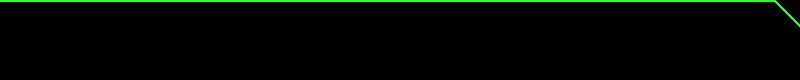
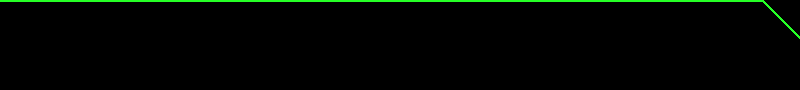
Implemented toolbar

Changed region(s): [[0.0, 0.0, 1.0, 0.4]]

diff --git a/TD/States/Ingame/MainState.cs b/TD/States/Ingame/MainState.cs
@@ -1,5 +1,6 @@
 using System;
 using System.Collections.Generic;
+using System.Drawing;
 using System.Linq;
 using System.Text;
 using System.Threading.Tasks;
@@ -17,6 +18,7 @@ public class MainState : BasicState
     public int money = 300;
     public int lives = 30;
     private List<Tower> towers = new List<Tower>();
+    protected Bitmap radiusTex = Resources.Radius_Texture;
 
     //Variables for checking position of tower.
     private int cellX;
@@ -24,7 +26,9 @@ public class MainState : BasicState
     private int tileX;
     private int tileY;
 
-    //Placing towers.
+    //GUI
+    Toolbar toolbar;
+    //Placing Towers
     private int newTowerIndex;  //index of the tower's texture.
     private string newTowerType;    //The type of tower to add.
     //The ranges of each tower. Is a bit naff, but there is no way to access the towers ranges when you are previewing a tower. 
@@ -65,6 +69,8 @@ public class MainState : BasicState
         : base(manager)
     {
         waveManager = new WaveManager(this, 10, Resources.En_Basic, Resources.Health_Bar);
+        toolbar = new Toolbar(); 
+       
 
         //DEBUG
         test = new Tow_Slow(Resources.Tow_Slow, Resources.Tow_Slow, Resources.Bul_Basic, new Vector2(40, 200));
@@ -76,7 +82,7 @@ public class MainState : BasicState
     public override void Update()
     {
         //Updating each tower.
-        foreach (Tower tower in towers)
+        foreach (Tower tower in towers.ToList())
         {
             //Giving the tower a target if it does not have one.
             if (tower.HasTarget == false)
@@ -92,7 +98,7 @@ public class MainState : BasicState
     private bool IsCellClear()
     {
         //Make sure tower is within limits of screen.
-        bool inBounds = cellX >= 0 && cellY >= 0 && cellX <= level.Width && cellY <= level.Height;
+        bool inBounds = cellX >= 0 && cellY >= 0 && cellX < Level.Width && cellY < Level.Height;
 
         bool spaceClear = true;
 
@@ -158,9 +164,42 @@ public class MainState : BasicState
     {
         level.Draw(e);
         waveManager.Draw(e);
+        toolbar.Draw(e);
+
+        Tower selectedTower = null;
 
         foreach (Tower t in towers)
+        {
+            //Drawing each tower.
             t.Draw(e);
+
+            //If the tower has been clicked on..
+            if (t.Selected)
+            {
+                //is has been selected.
+                selectedTower = t;
+            }
+        }
+
+        //We move this outside the loop so that the radius is drawn after all the towers have,
+        //therefore always being on top of all towers.
+        if (selectedTower != null)
+        {
+            //Calculating a rectangle from the range, to scale the radius texture to it.
+            Vector2 radiusPosition = new Vector2(selectedTower.Position.X + 20, selectedTower.Position.Y + 20) - new Vector2(selectedTower.Range);
+
+            Rectangle radiusRect = new Rectangle(
+            (int)radiusPosition.X,
+            (int)radiusPosition.Y,
+            (int)selectedTower.Range * 2,
+            (int)selectedTower.Range * 2);
+
+            radiusTex.MakeTransparent();
+            //Drawing the towers range.
+            e.Graphics.DrawImage(radiusTex, radiusRect);
+        }
+
+
     }
 }
 

diff --git a/TD/States/Ingame/Toolbar.cs b/TD/States/Ingame/Toolbar.cs
@@ -1,0 +1,37 @@
+using System;
+using System.Collections.Generic;
+using System.Drawing;
+using System.Linq;
+using System.Text;
+using System.Threading.Tasks;
+using System.Windows.Forms;
+using Tower_Defence.Properties;
+using Tower_Defence.Util;
+
+namespace Tower_Defence.States.Ingame
+{
+    public class Toolbar
+    {
+
+        private Bitmap texture = Resources.Toolbar;
+
+        //Position of toolbar & font.
+        private Rectangle rect = new Rectangle(0, Level.Height  * Level.TileWidth, 800, 90);
+        private Vector2 textPosition;
+
+        public Toolbar()
+        {
+            //Offset text to bottom right corner (Random values which work nicely are used).
+            textPosition = new Vector2(20, rect.Top + 15);
+        }
+
+        public void Draw(PaintEventArgs e)
+        {
+            e.Graphics.DrawImage(texture, rect);
+
+            //The new String(' ', 125) is just inserting 125 spaces.
+            //string text = string.Format("Gold: {0} {1} Lives: {2} {3}  Wave: {4}", player.Money, new String(' ', 10), player.Lives, new String(' ', 115), waveManager.Round);
+            //spriteBatch.DrawString(font, text, textPosition, Color.White);
+        }
+    }
+}

diff --git a/TD/States/Ingame/Towers/Tower.cs b/TD/States/Ingame/Towers/Tower.cs
@@ -29,7 +29,6 @@ namespace Tower_Defence.States.Ingame
 
         protected Bitmap bulletTexture;  //Texture of the towers bullet.
         protected Bitmap upgradedTower;    //Texture for the upgraded tower (for the overlay, drawn here)
-        protected Bitmap radiusTex = Resources.Radius_Texture;
         #endregion
 
         #region Properties
@@ -179,18 +178,7 @@ namespace Tower_Defence.States.Ingame
                 bullet.Draw(e);
             }
 
-            //Calculating a rectangle from the range, to scale the radius texture to it.
-            Vector2 radiusPosition = new Vector2(position.X + 20, position.Y + 20) - new Vector2(range);
 
-            Rectangle radiusRect = new Rectangle(
-            (int)radiusPosition.X,
-            (int)radiusPosition.Y,
-            (int)range * 2,
-            (int)range * 2);
-
-            radiusTex.MakeTransparent();
-            //Drawing the towers range.
-            e.Graphics.DrawImage(radiusTex, radiusRect);
 
             base.Draw(e);
 

diff --git a/TD/Properties/Resources.Designer.cs b/TD/Properties/Resources.Designer.cs
@@ -173,6 +173,16 @@ namespace Tower_Defence.Properties {
         /// <summary>
         ///   Looks up a localized resource of type System.Drawing.Bitmap.
         /// </summary>
+        public static System.Drawing.Bitmap Toolbar {
+            get {
+                object obj = ResourceManager.GetObject("Toolbar", resourceCulture);
+                return ((System.Drawing.Bitmap)(obj));
+            }
+        }
+        
+        /// <summary>
+        ///   Looks up a localized resource of type System.Drawing.Bitmap.
+        /// </summary>
         public static System.Drawing.Bitmap Top_Left {
             get {
                 object obj = ResourceManager.GetObject("Top_Left", resourceCulture);

diff --git a/TD/States/Ingame/Level.cs b/TD/States/Ingame/Level.cs
@@ -19,7 +19,7 @@ namespace Tower_Defence
         public static int TileWidth = 40;
 
         #region Map Array Code
-        int[,] map = 
+        private static int[,] map = 
         {
             {0,0,0,0,0,0,0,0,0,0,0,0,0,0,0,0,0,0,0,0},
             {0,0,0,0,0,0,0,0,0,0,0,0,0,0,0,3,5,5,1,0},
@@ -42,12 +42,12 @@ namespace Tower_Defence
         #endregion
 
         #region Properties
-        public int Width
+        public static int Width
         {
             get { return map.GetLength(1); }
         }
 
-        public int Height
+        public static int Height
         {
             get { return map.GetLength(0); }
         }

diff --git a/TD/States/MenuState.cs b/TD/States/MenuState.cs
@@ -14,7 +14,7 @@ using Tower_Defence;
         //Positioning Rectangle for play button.
         Rectangle playButton = new Rectangle(
             Screen.WIDTH / 2 - (Resources.Menu_Play_But.Width / 2), 
-            Screen.HEIGHT / 2 - (Resources.Menu_Play_But.Height / 2),
+            Screen.HEIGHT - (Resources.Menu_Play_But.Height + 200),
             Resources.Menu_Play_But.Width, Resources.Menu_Play_But.Height);
 
         public MenuState(Manager manager) : base(manager) 

diff --git a/TD/States/Ingame/Towers/Tow_Slow.cs b/TD/States/Ingame/Towers/Tow_Slow.cs
@@ -96,8 +96,6 @@ namespace Tower_Defence.States.Ingame.Towers
             //If we have a target..
             if (target != null)
             {
-
-                Interlocked.Read(ref center.X);  // now value of a is become 8
                     //create a bullet at the centre of the tower.
                     Bullet bullet = new Bullet(bulletTexture, center -
                         new Vector2(bulletTexture.Width / 2), rotation, 20, damage);
